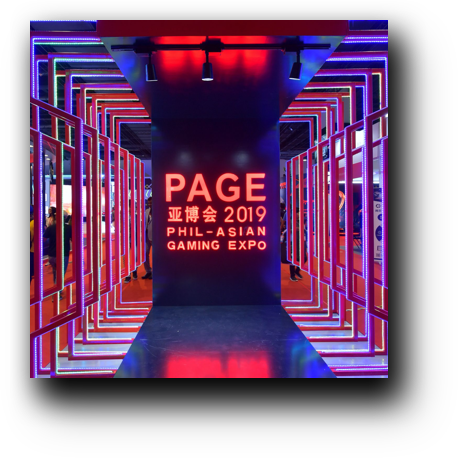
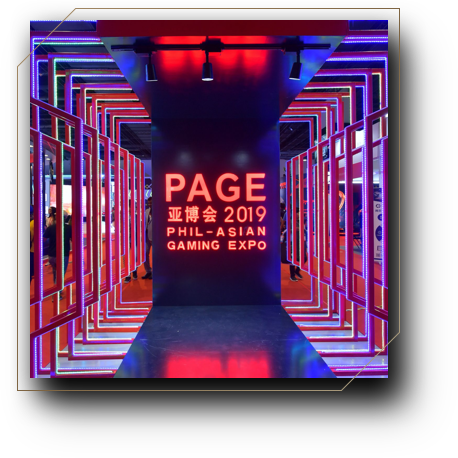
up

diff --git a/index.html b/index.html
@@ -282,18 +282,16 @@
                 </div>
                 <div class="section-container">
                     <h4 class="deco-cat">WHAT'S NEWS</h4>
-                    <div class="myClass">kjahskd</div>
+                    
                     <!-- carousel with page indicator -->
                     <div class="news-slider owl-carousel owl-theme" id="introCarousel">
                         <div class="news-item container">
+                            
                             <div class="news-flexbox row">
                                 <div class="col-12 col-md-6">
                                     <div class="news-item-img">
                                         <picture>
-                                            <a href="#">
-                                                <img src="images/index/index_whatsNews_newItem1_x1.png" style="width: 100%; background-position: 50% 10%; background-size: cover; height: 100%; object-fit: cover;" srcset="images/index/index_whatsNews_newItem1_x1.png 500w, images/index/index_whatsNews_newItem1_x2.png 1000w" alt="" />
-                                            </a>
-                                            
+                                            <img src="images/index/index_whatsNews_newItem1_x1.png"   srcset="images/index/index_whatsNews_newItem1_x1.png 500w, images/index/index_whatsNews_newItem1_x2.png 1000w" alt="" />
                                         </picture>
                                     </div>
                                 </div>
@@ -304,7 +302,6 @@
                                         <a href="#">
                                             <h6 class="text-gold-btn">read more</h6>
                                         </a>
-                                    
                                     </div>
                                 </div>
                             </div>
@@ -317,7 +314,6 @@
                                             <a href="#">
                                                 <img src="images/index/index_whatsNews_newItem2_x1.png" style="width: 100%; background-position: 50% 10%; background-size: cover; height: 100%; object-fit: cover;" srcset="images/index/index_whatsNews_newItem2_x1.png 500w, images/index/index_whatsNews_newItem2_x2.png 1000w" alt="" />
                                             </a>
-                                            
                                         </picture>
                                     </div>
                                 </div>

diff --git a/styles/_carousal.scss b/styles/_carousal.scss
@@ -91,22 +91,13 @@
     width: 270px;
     margin: 0 auto;
 }
-#intdexWhatsNews  .news-item-img picture{
+
+.news-item-img picture{
     position: relative;
+    width: 300px;
+    height: 300px;
 }
-#intdexWhatsNews .news-item-img picture:after{
-    content: "";
-        position: absolute;
-        top: 3px;
-        left: 9px;
-        width: 229px;
-        z-index: 10;
-        height: 229px;
-        pointer-events: none;
-        background-size: contain;
-        background-repeat: no-repeat;
[1 lines of base64/hex data omitted]
-}
+
 #intdexWhatsNews .news-item-text{
     width: 200px;
     margin: auto;
@@ -179,7 +170,7 @@
     width: 34px;
     height: 34px;
     left: -55px;
-    margin: 5px 40px;
+    margin: 5px 28px;
     background-repeat: no-repeat;
     background-size: contain;
[1 lines of base64/hex data omitted]
@@ -188,6 +179,8 @@
     -webkit-transform: scaleX(-1);
     transform: scaleX(-1);
 }
+
+
 // Small devices (landscape phones, 576px and up)
 @media (min-width: 576px) { 
     #slider-area .slide{
@@ -237,12 +230,7 @@
         width: 358px;
         height: inherit;
     }
-    #intdexWhatsNews .news-item-img picture:after {
-        width: 307px;
-        height: 307px;
-        top: 4px;
-        left: 10px;
-    }
+
     .header-wrapper .slider-text{
         top: 320px;
         h2{

diff --git a/styles/main.css b/styles/main.css
@@ -992,22 +992,10 @@ img {
   margin: 0 auto;
 }
 
-#intdexWhatsNews .news-item-img picture {
+.news-item-img picture {
   position: relative;
-}
-
-#intdexWhatsNews .news-item-img picture:after {
-  content: "";
-  position: absolute;
-  top: 3px;
-  left: 9px;
-  width: 229px;
-  z-index: 10;
-  height: 229px;
-  pointer-events: none;
-  background-size: contain;
-  background-repeat: no-repeat;
[1 lines of base64/hex data omitted]
+  width: 300px;
+  height: 300px;
 }
 
 #intdexWhatsNews .news-item-text {
@@ -1086,7 +1074,7 @@ img {
   width: 34px;
   height: 34px;
   left: -55px;
-  margin: 5px 40px;
+  margin: 5px 28px;
   background-repeat: no-repeat;
   background-size: contain;
[1 lines of base64/hex data omitted]
@@ -1141,12 +1129,6 @@ img {
   #intdexWhatsNews .news-item-img {
     width: 358px;
     height: inherit;
-  }
-  #intdexWhatsNews .news-item-img picture:after {
-    width: 307px;
-    height: 307px;
-    top: 4px;
-    left: 10px;
   }
   .header-wrapper .slider-text {
     top: 320px;

diff --git a/styles/main.scss b/styles/main.scss
@@ -37,6 +37,7 @@ body {
     background-color: #060B1A;
     transition: all 0.5s ease;
     line-height: 1.6;
+    
 }
 img{
   width: 100%;

diff --git a/js/main.js b/js/main.js
@@ -141,3 +141,4 @@ $('.news-slider').on('initialized.owl.carousel changed.owl.carousel', function(e
         }
     }
   });
+
